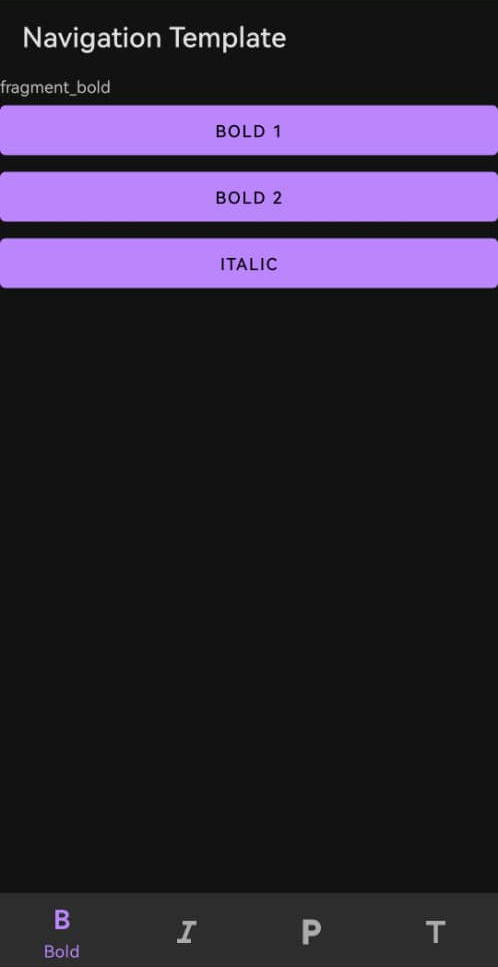
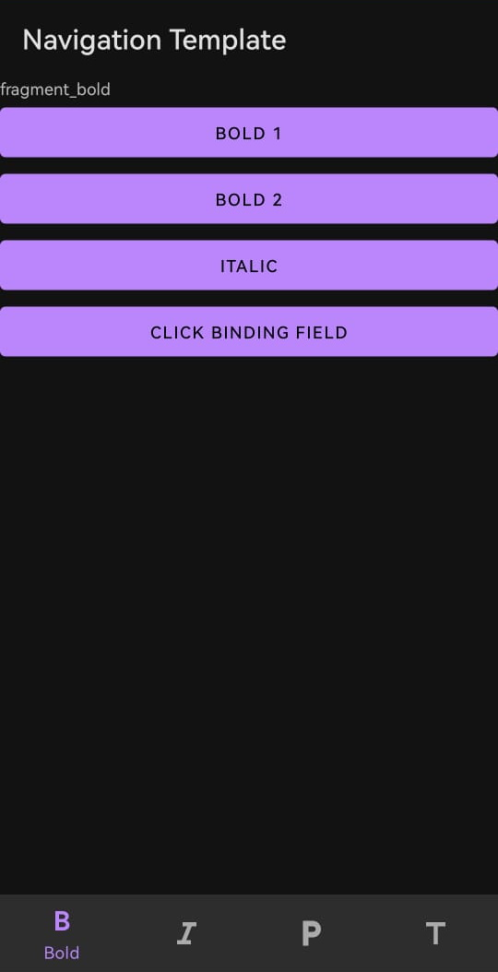
Example of accessing the binding view;

diff --git a/app/src/main/java/com/example/navigation/ui/BoldFragment.kt b/app/src/main/java/com/example/navigation/ui/BoldFragment.kt
@@ -50,4 +50,18 @@ class BoldFragment : Fragment() {
         _main.binding.bottomNavigationView.selectedItemId = R.id.fragmentItalic
     }
 
+    //region Example: Binding view
+
+    fun showClickMe() {
+        // _binding
+        // Accesses all binding views with valid android:id
+
+        // _binding?.clickMe
+        // Accesses to clickMe Button view
+
+        _binding?.clickMe?.text = "done binding me."
+    }
+
+    //endregion
+
 }

diff --git a/README.md b/README.md
@@ -2,12 +2,16 @@
 
 This app has the base navigation template to ease your initial development. By using `BottomNavigationView` and `Navigation Graph`, the app is able to navigate to different menu or to sub-screen through `Fragment`.
 
+Other available examples:
++ Within `Fragment`, accessing the binding view (`Button` `TextView`) from the `xml` layout.
+
 ### Example of menu structure
 
 + `Menu` `Nested navigation graph` Bold
 	+ `Sub Screen` Bold 1
 	+ `Sub Screen` Bold 2
 	+ `Navigate` Italic menu
+	+ `Button` Click to change binding field text name
 + `Menu` Italic
 + `Menu` Parking
 + `Menu` Title
